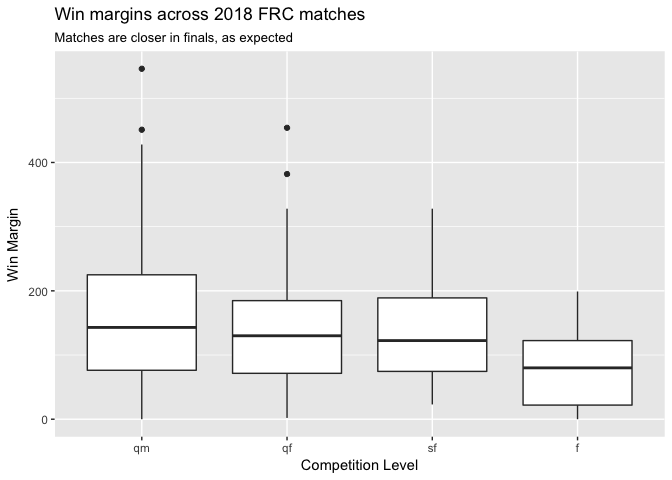
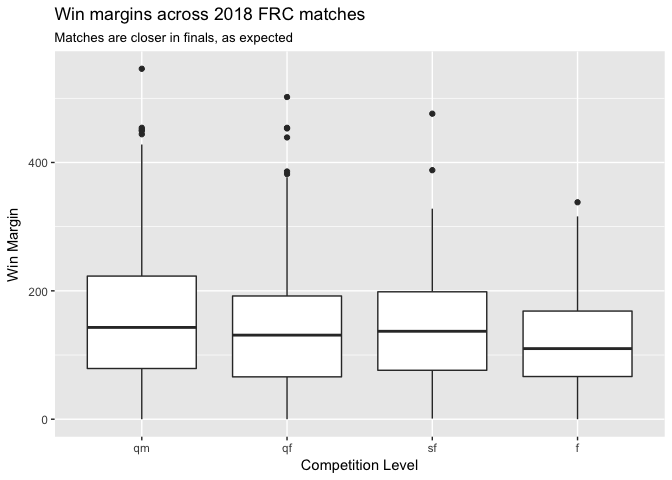
Add draft of blog post.

diff --git a/2018_matches.md b/2018_matches.md
@@ -4,62 +4,12 @@ Greg Marra
 
 A notebook to get FRC Match data from The Blue Alliance API.
 
-``` r
-library(tidyverse)
-```
-
-    ## ── Attaching packages ───────────────────────────────────────────────────────────────────────────────────────────────────────────────── tidyverse 1.2.1 ──
-
-    ## ✔ ggplot2 2.2.1     ✔ purrr   0.2.4
-    ## ✔ tibble  1.4.2     ✔ dplyr   0.7.4
-    ## ✔ tidyr   0.8.0     ✔ stringr 1.3.0
-    ## ✔ readr   1.1.1     ✔ forcats 0.3.0
-
-    ## ── Conflicts ──────────────────────────────────────────────────────────────────────────────────────────────────────────────────── tidyverse_conflicts() ──
-    ## ✖ dplyr::filter() masks stats::filter()
-    ## ✖ dplyr::lag()    masks stats::lag()
-
-``` r
-library(jsonlite)
-```
-
-    ## 
-    ## Attaching package: 'jsonlite'
-
-    ## The following object is masked from 'package:purrr':
-    ## 
-    ##     flatten
-
-``` r
-library(skimr)
-```
-
-    ## 
-    ## Attaching package: 'skimr'
-
-    ## The following objects are masked from 'package:dplyr':
-    ## 
-    ##     contains, ends_with, everything, matches, num_range, one_of,
-    ##     starts_with
-
-``` r
-source("get_tba_data.R")
-events <- getEvents("2018")
-
-# Get Matches
-matches <- events$event_code %>% 
-  map(~ getEventMatches(2018, .x)) %>%
-  bind_rows()
-
-comp_levels <- c("qm", "qf", "sf", "f")
-```
-
 Distribution Of Match Scores
 ============================
 
 The 2018 FRC game is somewhat unique, in that there is a maximum number of ownership points that can exist in a match, and teams need to tip the accumulation of those points towards their alliance. Early scoring is worth much more in that it can accumulate longer, while a box scored in a Switch or Scale during the last second of the match can only be worth a single point.
 
-Here we look at the results from 1840 matches played so far this year.
+Here we look at the results from 2074 matches played so far this year.
 
 ``` r
 matches %>%
@@ -162,7 +112,13 @@ matches_ownership %>%
 Lose the Scale Win the Match
 ----------------------------
 
-What explains matches where the team loses the Scale but still wins the Match?
+``` r
+matches_lose_scale_win_match <- matches_ownership %>%
+  filter(((scale_ownership_delta < 0) & (winning_alliance == "red")) |
+        ((scale_ownership_delta > 0) & (winning_alliance == "blue")))
+```
+
+What explains the 10.8968177% of matches where the team loses the Scale but still wins the Match (226 out of 2074 matches)?
 
 We can look at the "scale deficit" a team had to overcome, and see what percentage of the scale deficit was overcome by deltas in other scoring objectives. We can normalize these deltas by the size of the Scale deficit that had to be overcome vs how large these deltas were. For example, if the Red Alliance Endgame scored more 60 points, and the Scale deficit they had to overcome was 45 points, their Endgame overcame 133% of the deficit.
 
@@ -172,9 +128,7 @@ Looking at the summary statistics for matches where Red lost the Scale but won t
 ## Thought to explore here:
 ## In matches where the alliance loses the scale but manages to win, what fraction of the score_delta is explained by climb_delta, vault_delta, etc? What mechanic are teams using to lose the scale but win the match?
 
-matches_ownership %>%
-  filter(((scale_ownership_delta < 0) & (winning_alliance == "red")) |
-        ((scale_ownership_delta > 0) & (winning_alliance == "blue"))) %>%
+matches_lose_scale_win_match %>%
   ggplot(aes(scale_ownership_delta, score_delta, color = winning_alliance)) +
   geom_point() +
   scale_colour_manual(values = c(red = "red", blue = "blue"))
@@ -200,37 +154,37 @@ matches_ownership %>%
 ```
 
     ## Skim summary statistics
-    ##  n obs: 43 
+    ##  n obs: 85 
     ##  n variables: 12 
     ## 
     ## Variable type: integer 
-    ##       variable missing complete  n  mean    sd  p0  p25 median  p75 p100
-    ##     auto_delta       0       43 43  8.7  11.65 -20  0        7 15.5   40
-    ##  endgame_delta       0       43 43 31.05 26.18 -25 17.5     30 55     85
-    ##     foul_delta       0       43 43  1.51 28.38 -75 -7.5      0 10     80
-    ##    score_delta       0       43 43 68.16 45.59   8 26.5     61 99    174
-    ##    vault_delta       0       43 43 15.7  12.98 -10 10       15 25     45
+    ##       variable missing complete  n  mean    sd  p0 p25 median p75 p100
+    ##     auto_delta       0       85 85  7.48 10.95 -21   0      6  15   40
+    ##  endgame_delta       0       85 85 24.53 25.29 -50   5     25  35   85
+    ##     foul_delta       0       85 85  9.82 35.57 -75  -5      5  20  120
+    ##    score_delta       0       85 85 73.31 54.92   1  28     60 108  260
+    ##    vault_delta       0       85 85 15.65 13.64 -15   5     15  25   45
     ##      hist
-    ##  ▁▂▃▇▃▃▁▁
-    ##  ▂▂▂▇▂▅▅▁
-    ##  ▁▁▂▇▆▂▁▁
-    ##  ▇▃▃▂▅▁▃▁
-    ##  ▃▃▇▇▇▇▂▂
+    ##  ▁▂▆▇▅▅▁▁
+    ##  ▁▁▃▂▇▂▃▁
+    ##  ▁▁▃▇▂▁▁▁
+    ##  ▇▅▃▃▃▁▁▁
+    ##  ▁▃▂▇▃▅▁▂
     ## 
     ## Variable type: numeric 
-    ##                           variable missing complete  n   mean    sd
-    ##              auto_delta_pct_margin       0       43 43   0.15  0.97
-    ##           endgame_delta_pct_margin       0       43 43   1.18  2.56
-    ##              foul_delta_pct_margin       0       43 43   0.67  3.91
-    ##              scale_ownership_delta       0       43 43 -57.35 36.39
-    ##             switch_ownership_delta       0       43 43  71.93 48.68
-    ##  switch_ownership_delta_pct_margin       0       43 43   4.15 17.64
-    ##             vault_delta_pct_margin       0       43 43   0.49  1.75
-    ##       p0     p25 median    p75  p100     hist
-    ##    -5      0       0.16   0.29   2.5 ▁▁▁▁▁▇▁▁
-    ##    -2.5    0.23    0.67   1.25  15   ▁▇▁▁▁▁▁▁
-    ##    -1.88  -0.085   0      0.2   25   ▇▁▁▁▁▁▁▁
-    ##  -126    -86.5   -55    -26.5   -1   ▃▅▃▅▅▃▇▅
-    ##   -16     31      74    112.5  158   ▃▆▇▅▇▃▆▅
-    ##    -8      0.72    1.22   2.32 116   ▇▁▁▁▁▁▁▁
-    ##    -5      0.14    0.22   0.6   10   ▁▁▇▂▁▁▁▁
+    ##                           variable missing complete  n    mean    sd
+    ##              auto_delta_pct_margin       0       85 85   0.072  1.57
+    ##           endgame_delta_pct_margin       0       85 85   1.05   2.5 
+    ##              foul_delta_pct_margin       0       85 85   0.97   3.34
+    ##              scale_ownership_delta       0       85 85 -55.89  38.01
+    ##             switch_ownership_delta       0       85 85  74     47.65
+    ##  switch_ownership_delta_pct_margin       0       85 85   5.2   18.84
+    ##             vault_delta_pct_margin       0       85 85   0.55   1.7 
+    ##       p0     p25  median    p75 p100     hist
+    ##   -10.5    0       0.13    0.31    4 ▁▁▁▁▁▇▂▁
+    ##    -2.5    0.074   0.52    1.04   15 ▁▇▁▁▁▁▁▁
+    ##    -1.88  -0.056   0.046   0.62   25 ▇▂▁▁▁▁▁▁
+    ##  -127    -88     -50     -25      -1 ▅▃▆▆▃▅▇▇
+    ##   -16     29      79     114     158 ▃▇▇▆▇▇▇▆
+    ##    -8      0.75    1.23    2.5   125 ▇▁▁▁▁▁▁▁
+    ##    -5      0.13    0.32    0.62   10 ▁▁▇▂▁▁▁▁

diff --git a/2018_tba_w2_blog_post.md b/2018_tba_w2_blog_post.md
@@ -1,0 +1,22 @@
+Week Two Match Analysis Using the TBA API and R
+================
+Greg Marra
+3/8/2018
+
+FIRST® POWER UPS℠ is turning out to be a very interesting game! In this blog post, we'll use (The Blue Alliance API)\[<https://www.thebluealliance.com/apidocs/>\] and the R programming language to analyze the 2105 matches played so far this year.
+
+*The code that generated this blog post is available on my github at <LINK>. Fork it, load it up in (RStudio)\[<https://www.rstudio.com/>\], and try it out! If you want to learn more about using R to do data science, I recommend ("R for Data Science" by Hadley Wickham and Garrett Grolemund)\[<http://r4ds.had.co.nz/>\], which is available for free online.*
+
+Match Scores
+------------
+
+![](2018_tba_w2_blog_post_files/figure-markdown_github/match_score_distribution-1.png)
+
+The chart above is a boxplot, which shows the minimum, 25th percentile, median, 75th percentile, and maximum of the non-outlier values, with the outliers as dots. Unsurprisingly, scores are higher in playoff matches than in qualification matches.
+
+![](2018_tba_w2_blog_post_files/figure-markdown_github/win_margins-1.png)
+
+Looking at win margins, we see that the median win margin in qualification matches is 143 while the median win margin in playoff matches is only 143, 14.5 points lower!
+
+How to Win
+----------
